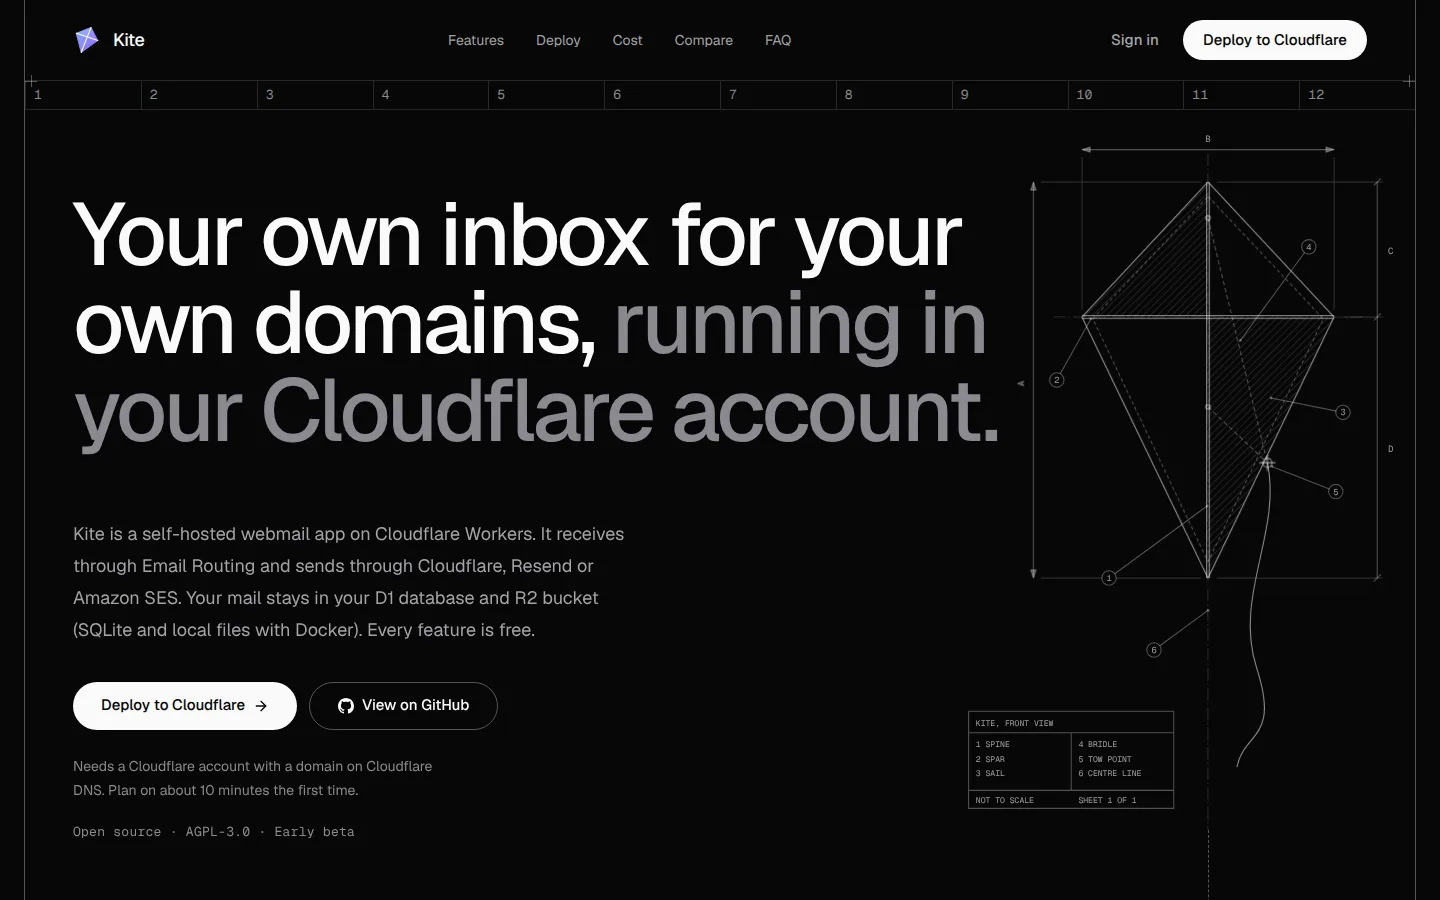
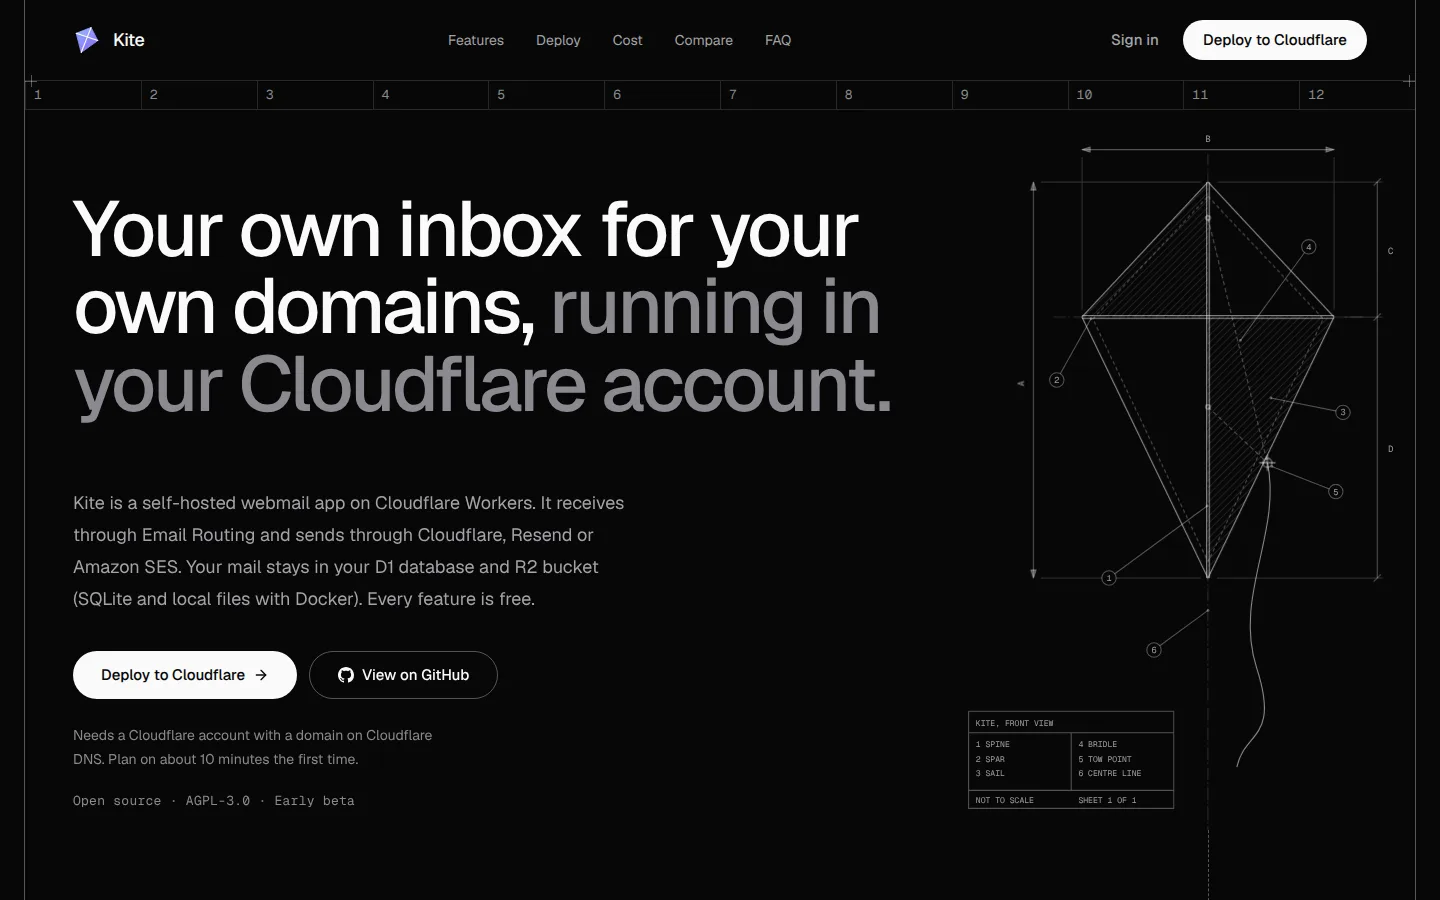
Give the hero drawing its own column so the headline never reaches it

Changed region(s): [[0.0312, 0.2178, 0.6875, 0.4978], [0.0312, 0.5289, 0.4375, 0.9333]]

diff --git a/src/app/page.tsx b/src/app/page.tsx
@@ -100,11 +100,14 @@ export default async function HomePage() {
 					</div>
 
 					<main id="main">
-						<section aria-labelledby="home-hero-heading" className="relative border-t border-(--home-line)">
+						<section
+							aria-labelledby="home-hero-heading"
+							className="relative border-t border-(--home-line) lg:grid lg:grid-cols-[minmax(0,1fr)_auto]"
+						>
 							<div className={`${PAD} relative z-10 pb-10 pt-14 md:pt-20 lg:pb-24`}>
 								<h1
 									id="home-hero-heading"
-									className="home-rise max-w-[17em] text-balance text-[clamp(2.5rem,6.2vw,5.5rem)] font-medium leading-[1] tracking-[-0.04em]"
+									className="home-rise max-w-[17em] text-balance text-[clamp(2.5rem,6.2vw,5.5rem)] lg:text-[clamp(2.5rem,5.4vw,5.25rem)] font-medium leading-[1] tracking-[-0.04em]"
 								>
 									Your own inbox for your own domains,{" "}
 									<span className="text-(--home-dim)">running in your Cloudflare account.</span>
@@ -128,12 +131,12 @@ export default async function HomePage() {
 									</div>
 								</div>
 							</div>
-							{/* The drawing: below the text on a phone, on the right from lg, where the kite's centre line carries on down the sheet. */}
+							{/* The drawing: below the text on a phone and a tablet, in its own column from lg so the headline can never reach it. It is as tall as the first screen allows, and its centre line carries on down the sheet. */}
 							<div
 								aria-hidden="true"
-								className="pointer-events-none relative mx-auto mb-16 w-fit lg:absolute lg:inset-y-0 lg:right-0 lg:m-0 lg:flex lg:flex-col"
+								className="pointer-events-none relative mx-auto mb-16 w-fit lg:m-0 lg:flex lg:flex-col"
 							>
-								<HomeKiteArt className="block h-[460px] w-auto lg:h-[480px] min-[1200px]:h-[620px] xl:h-[720px]" />
+								<HomeKiteArt className="block h-[460px] w-auto lg:h-[clamp(420px,calc(100svh-9.5rem),480px)] min-[1200px]:h-[clamp(420px,calc(100svh-9.5rem),620px)] xl:h-[clamp(440px,calc(100svh-9.5rem),720px)]" />
 								<span className="ml-[55.77%] hidden w-0 flex-1 border-l border-dashed border-(--home-line-strong) lg:block" />
 							</div>
 						</section>
